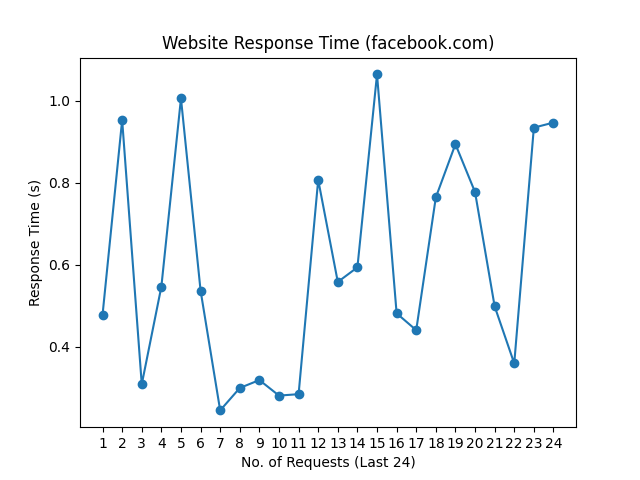
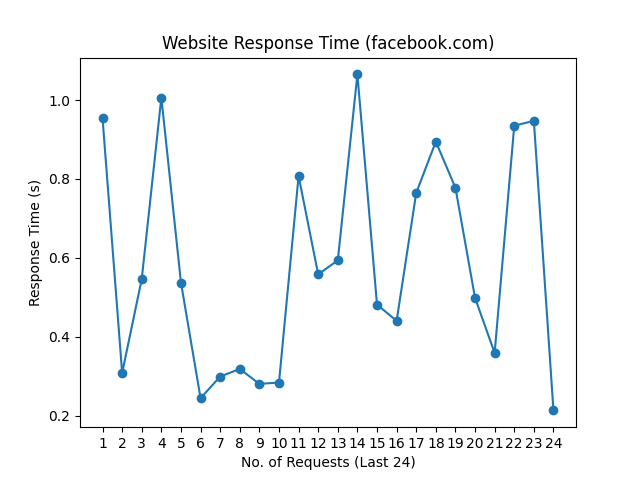
update README.md, history and graph

diff --git a/README.md b/README.md
@@ -1,10 +1,10 @@
 # Web Monitoring
 
-Last Checked: 17/12/2024 08:21
+Last Checked: 18/12/2024 08:21
 
 | Website | Response Time (s) | Status | Avg Uptime (%) |
 |---------|-------------------|--------|----------------|
 | www.thiswebsiteisdown.net | 0 <br> <img src="graph/thiswebsiteisdown.net.png" alt="Graph" width="200" height="200">  | ❌ Down | 0.00 |
-| www.netflix.com | 1.424521 <br> <img src="graph/netflix.com.png" alt="Graph" width="200" height="200">  | ✅ Up | 99.80 |
-| www.google.com | 0.079349 <br> <img src="graph/google.com.png" alt="Graph" width="200" height="200">  | ✅ Up | 100.00 |
-| www.facebook.com | 0.947251 <br> <img src="graph/facebook.com.png" alt="Graph" width="200" height="200">  | ✅ Up | 100.00 |
+| www.netflix.com | 0.844677 <br> <img src="graph/netflix.com.png" alt="Graph" width="200" height="200">  | ✅ Up | 99.80 |
+| www.google.com | 0.079814 <br> <img src="graph/google.com.png" alt="Graph" width="200" height="200">  | ✅ Up | 100.00 |
+| www.facebook.com | 0.213931 <br> <img src="graph/facebook.com.png" alt="Graph" width="200" height="200">  | ✅ Up | 100.00 |
